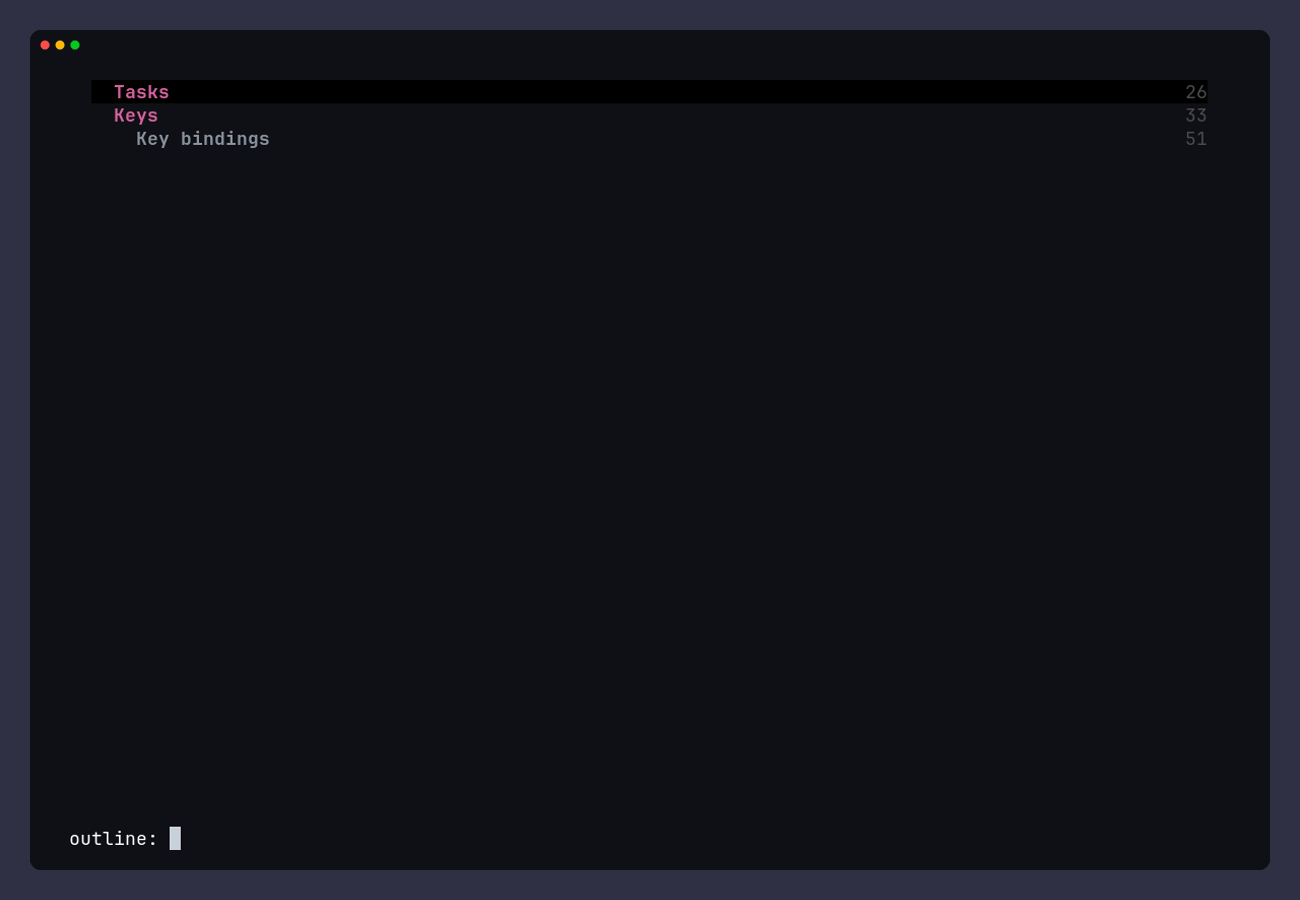
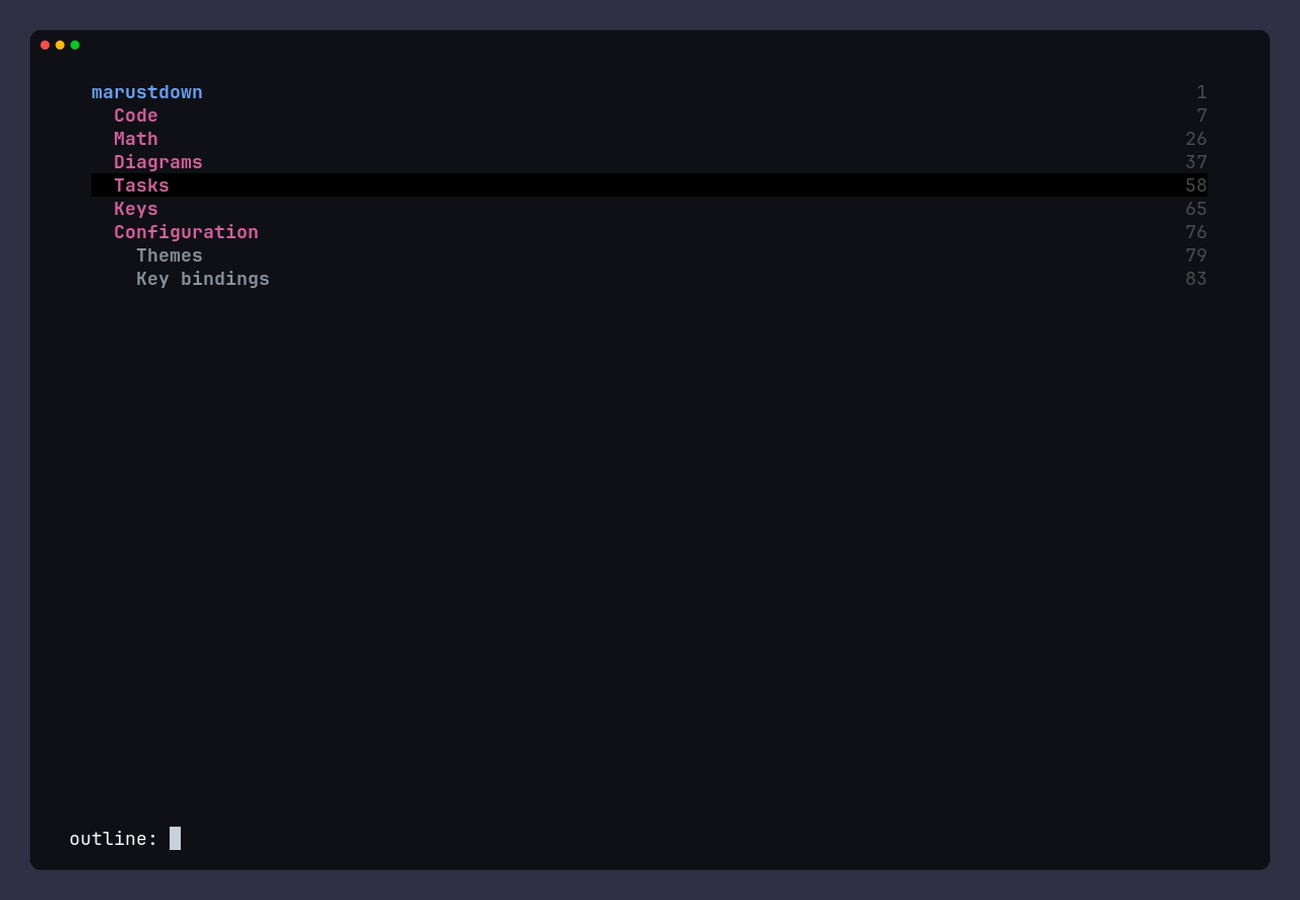
docs: show math and diagrams in the README screenshots
The demo's Math and Diagrams sections are now adjacent, the tape
captures them in a new math-diagrams screenshot, and the README shows
the four screenshots in a 2x2 grid. The tape pauses after each
screenshot, since VHS captures slightly late and the next key could
otherwise land in the picture. The other screenshots and the GIF are
regenerated.

Changed region(s): [[0.0615, 0.0933, 0.2154, 0.3422]]

diff --git a/README.md b/README.md
@@ -40,9 +40,11 @@ typography.
 
 ## Screenshots
 
-| Syntax highlighting | Task lists | Outline |
-|---|---|---|
-| ![A Rust code block with line numbers and highlighting](docs/screenshots/code.png) | ![A task checked off from the pager](docs/screenshots/tasks.png) | ![The outline picker listing the document's headings](docs/screenshots/outline.png) |
+| Syntax highlighting | Task lists |
+|---|---|
+| ![A Rust code block with line numbers and highlighting](docs/screenshots/code.png) | ![A task checked off from the pager](docs/screenshots/tasks.png) |
+| **Math and diagrams** | **Outline** |
+| ![LaTeX formulas as Unicode and Mermaid diagrams drawn with box characters](docs/screenshots/math-diagrams.png) | ![The outline picker listing the document's headings](docs/screenshots/outline.png) |
 
 The screenshots are generated with [VHS](https://github.com/charmbracelet/vhs): run
 `cargo build --release && vhs docs/demo.tape` to regenerate them.

diff --git a/docs/demo.md b/docs/demo.md
@@ -34,20 +34,6 @@ $$
 A = \begin{pmatrix} a & b \\ c & d \end{pmatrix}
 $$
 
-## Tasks
-
-- [x] Render markdown in the terminal
-- [ ] Check off tasks with `x`
-- [ ] Jump anywhere with the outline
-
-## Keys
-
-| Key | Action |
-|:---:|--------|
-| `x` | Toggle the task under the cursor |
-| `o` | Open the outline |
-| `f` | Follow a link from the keyboard |
-
 ## Diagrams
 
 ```mermaid
@@ -62,6 +48,20 @@ sequenceDiagram
     You->>mar: open README.md
     mar-->>You: rendered page
 ```
+
+## Tasks
+
+- [x] Render markdown in the terminal
+- [ ] Check off tasks with `x`
+- [ ] Jump anywhere with the outline
+
+## Keys
+
+| Key | Action |
+|:---:|--------|
+| `x` | Toggle the task under the cursor |
+| `o` | Open the outline |
+| `f` | Follow a link from the keyboard |
 
 ## Configuration
 
